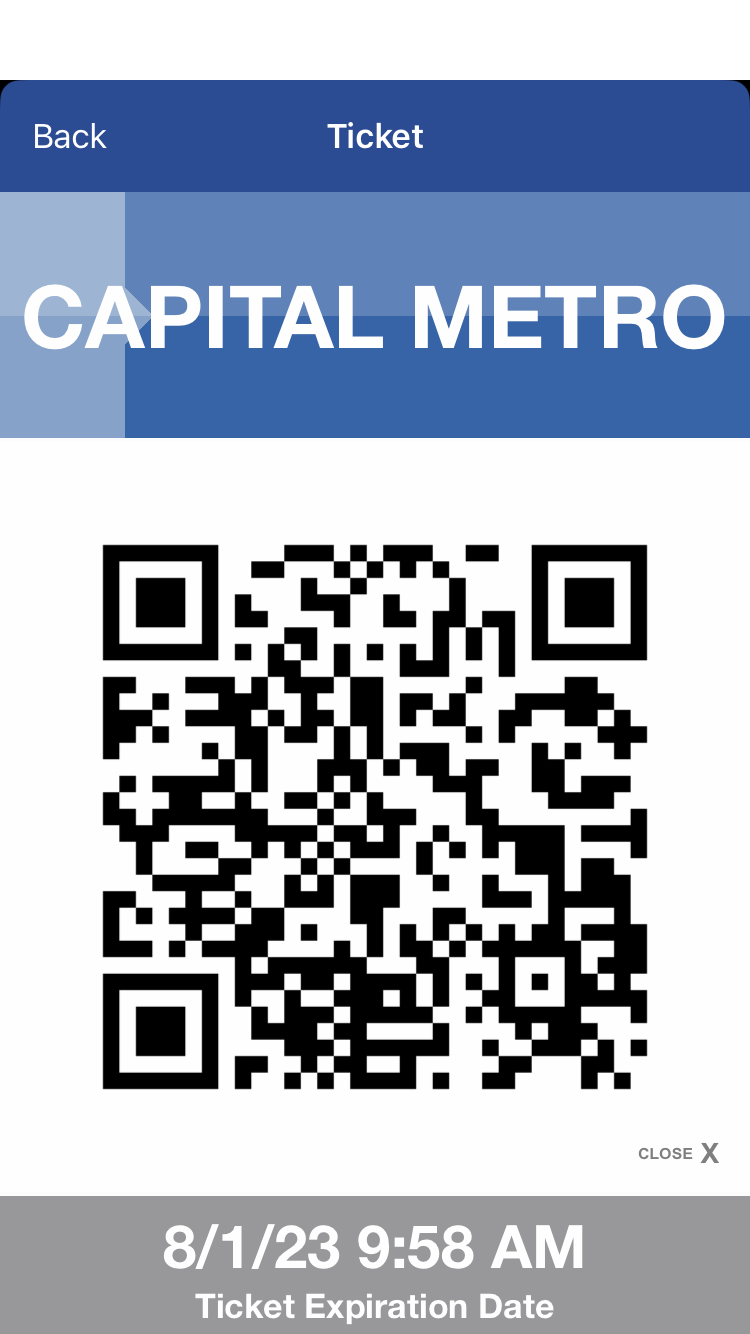
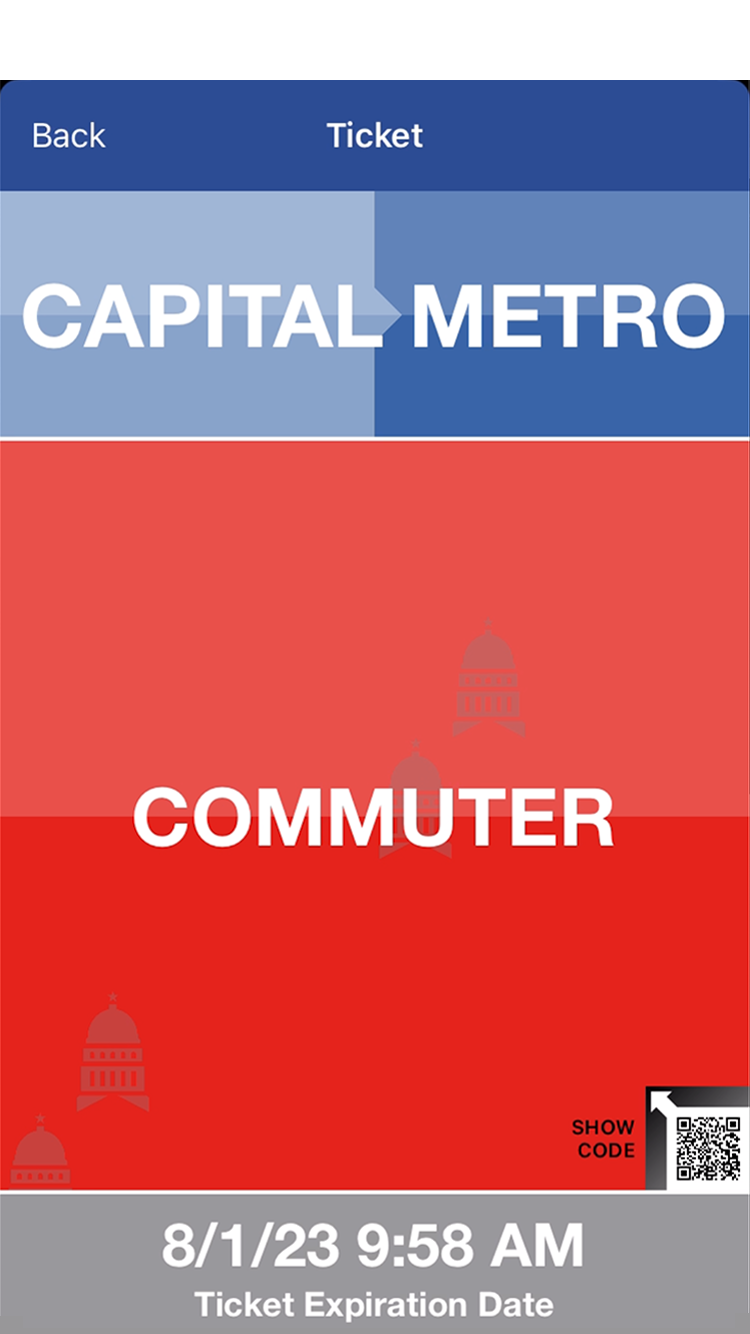
Test

diff --git a/capmetro/index.html b/capmetro/index.html
@@ -20,13 +20,42 @@
           });
           $("#ticket").animate({
             "top": "0vh"
-          })
+          }, function() {
+            $("#qr-button").css("display", "block");
+          });
         }, 1250);
       }
     </script>
     <style>
       #loading {
         display: none;
+      }
+
+      #qr-button {
+        display: none;
+      }
+
+      #watermark {
+        animation: validateWatermark 1s linear infinite;
+        -webkit-animation:validateWatermark 1s linear infinite;
+      }
+
+      @keyframes validateWatermark {
+        0% {
+            background-position: 0% 0%;
+        }
+        100% {
+            background-position: 0% -100%;
+        }
+      }
+
+      @-webkit-keyframes validateWatermark {
+        0% {
+            background-position: 0% 0%;
+        }
+        100% {
+            background-position: 0% -100%;
+        }
       }
     </style>
   </head>
@@ -37,7 +66,10 @@
       </div>
     </div>
     <div id="ride" onclick="rideClick()" style="height: 22.5vh; width: 98vw; top: 23.25vh; position: absolute;"></div>
-    <div id="ticket" style="width: 100vw; height: 100vh; background: url('ticket.png'); position: absolute; background-size: cover; z-index: 5; top: 100vh;"></div>
+    <div id="ticket" style="width: 100vw; height: 100vh; background: url('ticket.png'); position: absolute; background-size: cover; z-index: 5; top: 100vh;">
+      <div id="qr-button" style="height: 8vh; width: 8vh; margin-top: 81.5vh; margin-left: calc(100vw - 8vh); background-color: green; z-index: 5;" onclick="QR()"></div>
+      <div id="watermark" style="width: 100vw; height: 100vw; top: 33vh; background: url('watermark.png'); background-size: 100vw 100vw; position: absolute; z-index: 8;"></div>
+    </div>
     <img id="footer" src="footer.png" style="position: absolute; width: 100vw; bottom: 0;"/>
   </body>
 </html>
